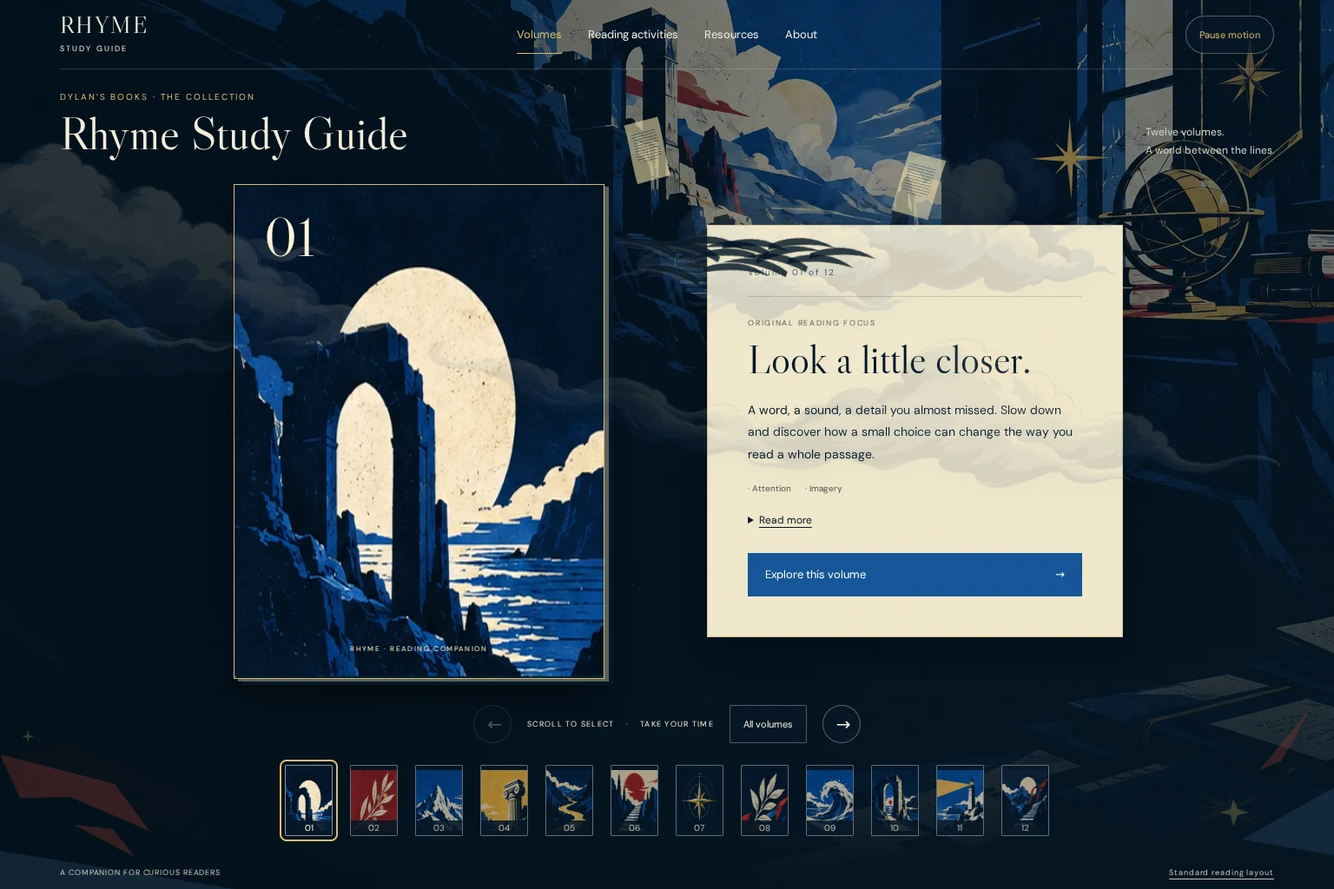
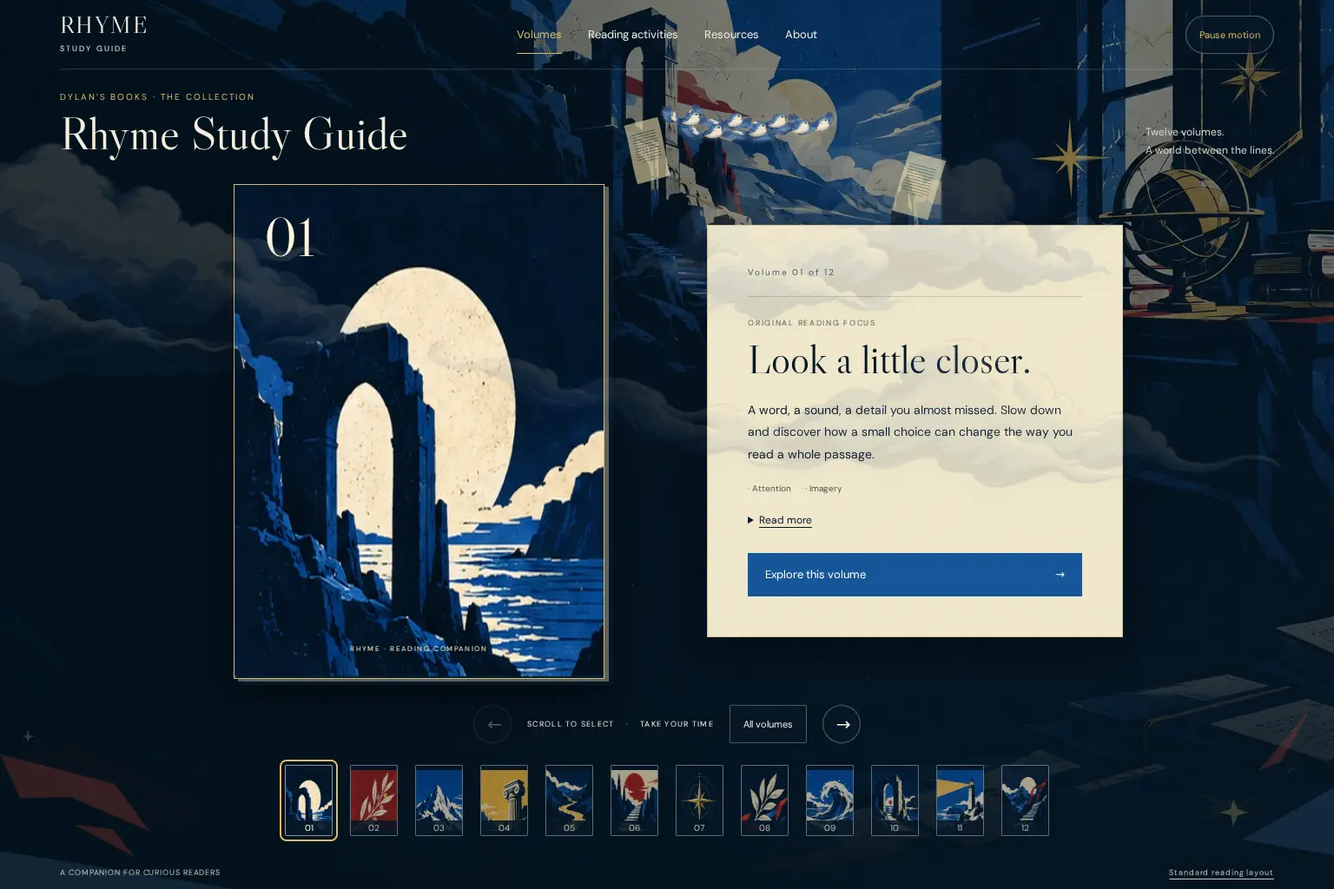
Keep flock birds upright on curved paths

Changed region(s): [[0.5, 0.25, 0.6562, 0.3125], [0.4688, 0.125, 0.625, 0.1562]]

diff --git a/assets/explorer.js b/assets/explorer.js
@@ -1,1 +1,1 @@
-var $=class{constructor(){this.reset()}reset(){this.total=0,this.last=-1/0,this.locked=!1,this.selectedAt=-1/0}feed(t,a){return a-this.last>220&&a-this.selectedAt>650&&(this.total=0,this.locked=!1),this.last=a,this.locked||!t||(Math.sign(t)!==Math.sign(this.total)&&(this.total=0),this.total+=t,Math.abs(this.total)<70)?0:(this.locked=!0,this.selectedAt=a,Math.sign(this.total))}};function N({surface:e,enabled:t,step:a}){let r=new $,d=s=>s.closest(".reading-panel,.thumbnail-strip,header,footer,dialog,details,input,textarea,select,a,button");e.addEventListener("wheel",s=>{if(!t()||s.ctrlKey||s.metaKey||d(s.target))return;s.preventDefault();let h=s.deltaY*(s.deltaMode===1?16:s.deltaMode===2?innerHeight:1),f=r.feed(h,performance.now());f&&a(f)},{passive:!1});let l=e.querySelector(".cover-stage"),o=null;l.addEventListener("touchstart",s=>{o=t()&&s.touches.length===1?{x:s.touches[0].clientX,y:s.touches[0].clientY}:null},{passive:!0}),l.addEventListener("touchmove",s=>{s.touches.length!==1&&(o=null)},{passive:!0}),l.addEventListener("touchend",s=>{if(!o||!t())return;let h=s.changedTouches[0].clientX-o.x,f=s.changedTouches[0].clientY-o.y;o=null;let m=Math.abs(h)>Math.abs(f)?h:f;Math.abs(m)>45&&a(m<0?1:-1)},{passive:!0}),l.addEventListener("touchcancel",()=>o=null,{passive:!0})}var G=[[-.78,.5],[-.78,.83],[.78,.83],[.78,.5]],U=[[.78,.5],[.78,.17],[-.78,.17],[-.78,.5]],_=60;function J(e,t){let a=1-t;return{x:a**3*e[0][0]+3*a*a*t*e[1][0]+3*a*t*t*e[2][0]+t**3*e[3][0],y:a**3*e[0][1]+3*a*a*t*e[1][1]+3*a*t*t*e[2][1]+t**3*e[3][1]}}function Q(e,t){let a=1-t;return{x:3*a*a*(e[1][0]-e[0][0])+6*a*t*(e[2][0]-e[1][0])+3*t*t*(e[3][0]-e[2][0]),y:3*a*a*(e[1][1]-e[0][1])+6*a*t*(e[2][1]-e[1][1])+3*t*t*(e[3][1]-e[2][1])}}function R(e,t=0){let a=((e/_+.28-t*.008)%1+1)%1,r=a<.5?G:U,d=a%.5*2,l=J(r,d),o=Q(r,d),s=Math.hypot(o.x,o.y)||1,h={x:o.x/s,y:o.y/s},f=t===0?0:(t%2?1:-1)*(.024+Math.floor(t/2)*.018);return{x:l.x-h.y*f,y:l.y+h.x*f,angle:Math.atan2(h.y,h.x),wing:Math.sin(e*Math.PI*2*1.4+t*.8)*.65}}var Z=7;function D(e){let t=!1,a=0,r=performance.now(),d=0,l=[...e.querySelectorAll("[data-bird]")],o=()=>{let m=innerWidth<700,Y=m?4:Z;l.forEach((g,q)=>{if(g.hidden=q>=Y,g.hidden)return;let E=R(d,q),j=50+E.x*44,X=12+E.y*22;g.style.setProperty("--bird-x",`${j}%`),g.style.setProperty("--bird-y",`${X}%`),g.style.setProperty("--bird-scale",m?.42:.62),g.style.setProperty("--bird-angle",`${E.angle}rad`),g.style.setProperty("--wing-flap",`${E.wing}rad`)})},s=m=>{a=0,!(t||document.hidden)&&(d+=Math.min((m-r)/1e3,.07),r=m,o(),a=requestAnimationFrame(s))},h=()=>{cancelAnimationFrame(a),a=0,!t&&!document.hidden&&(r=performance.now(),a=requestAnimationFrame(s))},f=()=>o();return addEventListener("resize",f),o(),h(),{setPaused(m){t=m,t?(cancelAnimationFrame(a),a=0,o()):h(),e.dataset.paused=String(t)},dispose(){t=!0,cancelAnimationFrame(a),removeEventListener("resize",f)}}}var ee=[["Notice the small things","Look a little closer.","A word, a sound, a detail you almost missed. Slow down and discover how a small choice can change the way you read a whole passage.",["Attention","Imagery"],"study-guide/reading-practice/notice/","Moonlit arch"],["Find where you belong","Follow the roots.","Explore how places and relationships shape a sense of belonging. Notice who feels at home, who stands apart, and what brings them together.",["Belonging","Setting"],"themes/belonging/","Olive branch"],["See another perspective","A different point of view.","Step beyond your first impression. Ask whose story you are hearing and how the same moment might look through someone else\u2019s eyes.",["Perspective","Narrator"],"themes/perspective/","Mountain peak"],["Build an interpretation","Give your idea a foundation.","Start with a detail from your reading, then build an interpretation around it. Separate what the text tells you from what you infer.",["Evidence","Inference"],"vocabulary/inference/","Classical column"],["Follow an idea","Find the thread.","Connect two moments in your reading. Look for an image, choice, or question that returns, and consider what changes along the way.",["Connection","Theme"],"study-guide/reading-practice/connect/","Golden river"],["Notice what changes","Every step reveals something.","Compare the beginning with a later moment. A small shift in language, a new choice, or a changed relationship can reveal a larger transformation.",["Change","Character"],"themes/change/","Staircase and sun"],["Find your reading direction","Let curiosity lead.","Choose a passage and a question to guide you. Follow a short reading activity at your own pace, with room to pause and return.",["Curiosity","Reflection"],"study-guide/reading-practice/","Compass star"],["Listen to the language","Hear the words differently.","Read a sentence aloud. Listen for its rhythm, its pauses, and its movement. Consider how the pace changes what you feel and notice.",["Rhythm","Sound"],"vocabulary/rhythm/","Paper and branch"],["Follow the echoes","Listen for a returning sound.","Explore the sounds that connect words and lines. Notice how a rhyme creates expectation, adds emphasis, or draws two ideas together.",["Rhyme","Language"],"vocabulary/rhyme/","Ocean wave"],["Step into the setting","A world beyond the page.","Look at the place, time, and conditions surrounding a story. Ask how those surroundings influence a character\u2019s choices and the mood of a scene.",["Setting","Imagery"],"vocabulary/setting/","Stone doorway"],["Make room for another view","See a little further.","One passage can open more than one possibility. Revisit a first impression, listen to another perspective, and return to the text with a new question.",["Perspective","Reflection"],"study-guide/reading-practice/reflect/","Lighthouse"],["Carry the conversation on","The last page is a beginning.","Bring a detail, a connection, or an unanswered question to another reader. Make room for different interpretations and see what you discover together.",["Conversation","Discovery"],"discussion/","Moonlit steps"]],b=ee.map(([e,t,a,r,d,l],o)=>({id:o+1,number:String(o+1).padStart(2,"0"),title:`Volume ${String(o+1).padStart(2,"0")}`,focus:e,headline:t,summary:a,themes:r,activity:d,art:l,status:"reading-companion",bookTitle:null,bookSummary:null,accent:["#164f8d","#9d352b","#245d9a","#d2ad50"][o%4],coverImage:`assets/volumes/volume-${String(o+1).padStart(2,"0")}.webp`,thumbnail:`assets/volumes/volume-${String(o+1).padStart(2,"0")}-small.webp`,route:`volumes/${String(o+1).padStart(2,"0")}/`}));var H=new Set(["volumes","activities","resources","about"]),L=class{constructor(t,a=""){this.volumes=t,this.listeners=new Set,this.state={activeIndex:0,view:"volumes",expanded:!1,transition:"idle",motionOff:!1,chooserOpen:!1},this.readHash(a)}snapshot(){return{...this.state,volume:this.volumes[this.state.activeIndex],canPrevious:this.state.activeIndex>0,canNext:this.state.activeIndex<this.volumes.length-1}}subscribe(t){return this.listeners.add(t),t(this.snapshot()),()=>this.listeners.delete(t)}update(t){this.state={...this.state,...t},this.listeners.forEach(a=>a(this.snapshot()))}select(t){return!Number.isInteger(t)||t<0||t>=this.volumes.length?!1:(this.update({activeIndex:t,view:"volumes",expanded:!1,transition:this.state.motionOff?"idle":"entering"}),!0)}step(t){return this.select(this.state.activeIndex+t)}show(t){return H.has(t)?(this.update({view:t,expanded:!1}),!0):!1}readHash(t){let a=/^#volume-(\d{2})$/.exec(t);a?this.select(Number(a[1])-1)||this.select(0):H.has(t.slice(1))?this.show(t.slice(1)):(!t||t.startsWith("#volume-"))&&this.select(0)}get hash(){return this.state.view==="volumes"?`#volume-${this.volumes[this.state.activeIndex].number}`:`#${this.state.view}`}};var u=document.documentElement,n=e=>document.querySelector(e),p=e=>[...document.querySelectorAll(e)],i=new L(b,location.hash),P=p("[data-volume]"),S=p("[data-cover]"),k=p(".volume-panel"),y=n("dialog"),A=matchMedia("(prefers-reduced-motion:reduce)"),c=-1,I="",K,v,V,x;u.classList.add("js");var W=()=>{u.dataset.documentHidden=String(document.hidden),x?.setPaused(document.hidden||i.state.motionOff||u.dataset.layout==="standard")};document.addEventListener("visibilitychange",W);W();function M(){location.hash!==i.hash&&history.pushState(null,"",i.hash)}function w(e){i.select(e)&&M()}function te(e){i.show(e)&&M()}function z(e){let t=n(".thumbnail-strip"),a=P[e];t.scrollTo({left:a.offsetLeft-t.offsetLeft-(t.clientWidth-a.clientWidth)/2,behavior:"instant"})}i.subscribe(e=>{let t=c!==e.activeIndex;if(t&&c>=0&&!e.motionOff){p(".departing-cover").forEach(l=>l.remove());let a=S[c],r=a.getBoundingClientRect(),d=a.cloneNode(!0);d.removeAttribute("data-cover"),d.className="departing-cover",d.setAttribute("aria-hidden","true"),d.style.width=`${r.width}px`,d.style.height=`${r.height}px`,n(".cover-stage").append(d),d.addEventListener("animationend",()=>d.remove(),{once:!0}),setTimeout(()=>d.remove(),520)}if(P.forEach((a,r)=>a.setAttribute("aria-pressed",String(r===e.activeIndex))),S.forEach((a,r)=>a.hidden=r!==e.activeIndex),k.forEach((a,r)=>{a.hidden=r!==e.activeIndex,a.querySelector("details").open=r===e.activeIndex&&e.expanded}),n("[data-position]").textContent=`Volume ${e.volume.number} of ${b.length}`,n("[data-previous]").disabled=!e.canPrevious,n("[data-next]").disabled=!e.canNext,p("[data-scene]").forEach(a=>a.hidden=a.dataset.scene!==e.view),p("header [data-view]").forEach(a=>{a.dataset.view===e.view?a.setAttribute("aria-current","page"):a.removeAttribute("aria-current")}),t){c=e.activeIndex;for(let a of[S[c],k[c]])a.classList.remove("is-entering"),a.offsetWidth,a.classList.add("is-entering");n("[data-announcer]").textContent=`Volume ${e.volume.number} of ${b.length}. ${e.volume.focus}.`,n("[data-reading-panel]").scrollTop=0,requestAnimationFrame(()=>z(c)),clearTimeout(K),K=setTimeout(()=>{S[c].classList.remove("is-entering"),k[c].classList.remove("is-entering"),i.update({transition:"idle"})},500)}I!==e.view&&(I=e.view,u.dataset.currentView=I)});P.forEach((e,t)=>e.addEventListener("click",()=>w(t)));n("[data-previous]").addEventListener("click",()=>w(c-1));n("[data-next]").addEventListener("click",()=>w(c+1));p("header [data-view]").forEach(e=>e.addEventListener("click",t=>{t.preventDefault(),te(e.dataset.view)}));p("details").forEach(e=>e.addEventListener("toggle",()=>{!e.closest("[hidden]")&&e.open!==i.state.expanded&&i.update({expanded:e.open})}));function O(e){u.dataset.layout=e?"standard":"visual",e||window.scrollTo(0,0),v?.setPaused(e||i.state.motionOff),x?.setPaused(e||i.state.motionOff)}n("[data-standard]").addEventListener("click",e=>{e.preventDefault(),history.pushState(null,"","#standard"),O(!0),n("[data-return]").focus()});n("[data-return]").addEventListener("click",()=>{O(!1),M(),n("[data-standard]").focus()});function C(){O(location.hash==="#standard"),i.readHash(location.hash)}addEventListener("popstate",C);addEventListener("hashchange",C);C();function F(){y.close(),i.update({chooserOpen:!1}),n("[data-chooser]").focus({preventScroll:!0})}n("[data-chooser]").addEventListener("click",()=>{i.update({chooserOpen:!0}),y.showModal(),n("[data-close-chooser]").focus()});n("[data-close-chooser]").addEventListener("click",F);y.addEventListener("keydown",e=>{if(e.key!=="Tab")return;let t=[...y.querySelectorAll("button")],a=t[0],r=t.at(-1);e.shiftKey&&document.activeElement===a?(e.preventDefault(),r.focus()):!e.shiftKey&&document.activeElement===r&&(e.preventDefault(),a.focus())});y.addEventListener("cancel",e=>{e.preventDefault(),F()});p("[data-choice]").forEach(e=>e.addEventListener("click",()=>{w(Number(e.dataset.choice)),F()}));document.addEventListener("keydown",e=>{if(e.altKey||e.ctrlKey||e.metaKey||y.open||u.dataset.layout==="standard"||i.state.view!=="volumes"||e.target.closest("details,input,textarea,select"))return;let t={ArrowRight:c+1,ArrowLeft:c-1,Home:0,End:b.length-1}[e.key];t!==void 0&&(e.preventDefault(),w(t))});var B={get(){try{return localStorage.getItem("rhyme:motion")}catch{return null}},set(e){try{localStorage.setItem("rhyme:motion",e)}catch{}}};async function T(){let e=A.matches||B.get()==="off";i.update({motionOff:e}),u.dataset.motion=e?"off":"on";let t=n(".motion-control");t.disabled=A.matches,t.setAttribute("aria-pressed",String(e)),t.textContent=A.matches?"Reduced motion":e?"Enable motion":"Pause motion",!e&&!v&&(V??=import("./rhyme-world-renderer-KITZ2NJD.js").then(({mountWorld:a})=>a(n("#world-canvas"))).catch(()=>(u.dataset.webgl="fallback",null)),v=await V),v?.setPaused(i.state.motionOff||u.dataset.layout==="standard"),x?.setPaused(i.state.motionOff||u.dataset.layout==="standard"||document.hidden)}n(".motion-control").addEventListener("click",()=>{B.set(i.state.motionOff?"on":"off"),T()});A.addEventListener("change",T);T();n(".cover-stage").addEventListener("pointermove",e=>{!i.state.motionOff&&e.pointerType==="mouse"&&v?.setPointer((e.clientX/innerWidth-.5)*.5,(e.clientY/innerHeight-.5)*.5)});n(".cover-stage").addEventListener("pointerleave",()=>v?.setPointer(0,0));p("img").forEach(e=>{let t=()=>{e.dataset.fallback||(e.dataset.fallback="true",e.src=new URL("assets/world/fallback.svg",document.baseURI).href)};e.addEventListener("error",t),e.complete&&!e.naturalWidth&&t()});addEventListener("resize",()=>z(c));N({surface:n(".reader-shell"),enabled:()=>i.state.view==="volumes"&&!i.state.chooserOpen&&u.dataset.layout!=="standard",step:e=>w(c+e)});x=D(n(".foreground-atmosphere"));x.setPaused(i.state.motionOff||u.dataset.layout==="standard"||document.hidden);u.dataset.explorer="ready";
+var A=class{constructor(){this.reset()}reset(){this.total=0,this.last=-1/0,this.locked=!1,this.selectedAt=-1/0}feed(t,a){return a-this.last>220&&a-this.selectedAt>650&&(this.total=0,this.locked=!1),this.last=a,this.locked||!t||(Math.sign(t)!==Math.sign(this.total)&&(this.total=0),this.total+=t,Math.abs(this.total)<70)?0:(this.locked=!0,this.selectedAt=a,Math.sign(this.total))}};function R({surface:e,enabled:t,step:a}){let r=new A,d=s=>s.closest(".reading-panel,.thumbnail-strip,header,footer,dialog,details,input,textarea,select,a,button");e.addEventListener("wheel",s=>{if(!t()||s.ctrlKey||s.metaKey||d(s.target))return;s.preventDefault();let h=s.deltaY*(s.deltaMode===1?16:s.deltaMode===2?innerHeight:1),f=r.feed(h,performance.now());f&&a(f)},{passive:!1});let l=e.querySelector(".cover-stage"),o=null;l.addEventListener("touchstart",s=>{o=t()&&s.touches.length===1?{x:s.touches[0].clientX,y:s.touches[0].clientY}:null},{passive:!0}),l.addEventListener("touchmove",s=>{s.touches.length!==1&&(o=null)},{passive:!0}),l.addEventListener("touchend",s=>{if(!o||!t())return;let h=s.changedTouches[0].clientX-o.x,f=s.changedTouches[0].clientY-o.y;o=null;let m=Math.abs(h)>Math.abs(f)?h:f;Math.abs(m)>45&&a(m<0?1:-1)},{passive:!0}),l.addEventListener("touchcancel",()=>o=null,{passive:!0})}var _=[[-.78,.5],[-.78,.83],[.78,.83],[.78,.5]],J=[[.78,.5],[.78,.17],[-.78,.17],[-.78,.5]],Q=60;function D(e){let t=Math.cos(e)>=0?1:-1,a=Math.max(-.16,Math.min(.16,Math.atan2(Math.sin(e),Math.abs(Math.cos(e)))*.35));return{facing:t,bank:a}}function Z(e,t){let a=1-t;return{x:a**3*e[0][0]+3*a*a*t*e[1][0]+3*a*t*t*e[2][0]+t**3*e[3][0],y:a**3*e[0][1]+3*a*a*t*e[1][1]+3*a*t*t*e[2][1]+t**3*e[3][1]}}function ee(e,t){let a=1-t;return{x:3*a*a*(e[1][0]-e[0][0])+6*a*t*(e[2][0]-e[1][0])+3*t*t*(e[3][0]-e[2][0]),y:3*a*a*(e[1][1]-e[0][1])+6*a*t*(e[2][1]-e[1][1])+3*t*t*(e[3][1]-e[2][1])}}function H(e,t=0){let a=((e/Q+.28-t*.008)%1+1)%1,r=a<.5?_:J,d=a%.5*2,l=Z(r,d),o=ee(r,d),s=Math.hypot(o.x,o.y)||1,h={x:o.x/s,y:o.y/s},f=t===0?0:(t%2?1:-1)*(.024+Math.floor(t/2)*.018);return{x:l.x-h.y*f,y:l.y+h.x*f,angle:Math.atan2(h.y,h.x),wing:Math.sin(e*Math.PI*2*1.4+t*.8)*.65}}var te=7;function K(e){let t=!1,a=0,r=performance.now(),d=0,l=[...e.querySelectorAll("[data-bird]")],o=()=>{let m=innerWidth<700,X=m?4:te;l.forEach((g,q)=>{if(g.hidden=q>=X,g.hidden)return;let E=H(d,q),N=D(E.angle),G=50+E.x*44,U=12+E.y*22;g.style.setProperty("--bird-x",`${G}%`),g.style.setProperty("--bird-y",`${U}%`),g.style.setProperty("--bird-scale",m?.42:.62),g.style.setProperty("--bird-facing",N.facing),g.style.setProperty("--bird-bank",`${N.bank}rad`),g.style.setProperty("--wing-flap",`${E.wing}rad`)})},s=m=>{a=0,!(t||document.hidden)&&(d+=Math.min((m-r)/1e3,.07),r=m,o(),a=requestAnimationFrame(s))},h=()=>{cancelAnimationFrame(a),a=0,!t&&!document.hidden&&(r=performance.now(),a=requestAnimationFrame(s))},f=()=>o();return addEventListener("resize",f),o(),h(),{setPaused(m){t=m,t?(cancelAnimationFrame(a),a=0,o()):h(),e.dataset.paused=String(t)},dispose(){t=!0,cancelAnimationFrame(a),removeEventListener("resize",f)}}}var ae=[["Notice the small things","Look a little closer.","A word, a sound, a detail you almost missed. Slow down and discover how a small choice can change the way you read a whole passage.",["Attention","Imagery"],"study-guide/reading-practice/notice/","Moonlit arch"],["Find where you belong","Follow the roots.","Explore how places and relationships shape a sense of belonging. Notice who feels at home, who stands apart, and what brings them together.",["Belonging","Setting"],"themes/belonging/","Olive branch"],["See another perspective","A different point of view.","Step beyond your first impression. Ask whose story you are hearing and how the same moment might look through someone else\u2019s eyes.",["Perspective","Narrator"],"themes/perspective/","Mountain peak"],["Build an interpretation","Give your idea a foundation.","Start with a detail from your reading, then build an interpretation around it. Separate what the text tells you from what you infer.",["Evidence","Inference"],"vocabulary/inference/","Classical column"],["Follow an idea","Find the thread.","Connect two moments in your reading. Look for an image, choice, or question that returns, and consider what changes along the way.",["Connection","Theme"],"study-guide/reading-practice/connect/","Golden river"],["Notice what changes","Every step reveals something.","Compare the beginning with a later moment. A small shift in language, a new choice, or a changed relationship can reveal a larger transformation.",["Change","Character"],"themes/change/","Staircase and sun"],["Find your reading direction","Let curiosity lead.","Choose a passage and a question to guide you. Follow a short reading activity at your own pace, with room to pause and return.",["Curiosity","Reflection"],"study-guide/reading-practice/","Compass star"],["Listen to the language","Hear the words differently.","Read a sentence aloud. Listen for its rhythm, its pauses, and its movement. Consider how the pace changes what you feel and notice.",["Rhythm","Sound"],"vocabulary/rhythm/","Paper and branch"],["Follow the echoes","Listen for a returning sound.","Explore the sounds that connect words and lines. Notice how a rhyme creates expectation, adds emphasis, or draws two ideas together.",["Rhyme","Language"],"vocabulary/rhyme/","Ocean wave"],["Step into the setting","A world beyond the page.","Look at the place, time, and conditions surrounding a story. Ask how those surroundings influence a character\u2019s choices and the mood of a scene.",["Setting","Imagery"],"vocabulary/setting/","Stone doorway"],["Make room for another view","See a little further.","One passage can open more than one possibility. Revisit a first impression, listen to another perspective, and return to the text with a new question.",["Perspective","Reflection"],"study-guide/reading-practice/reflect/","Lighthouse"],["Carry the conversation on","The last page is a beginning.","Bring a detail, a connection, or an unanswered question to another reader. Make room for different interpretations and see what you discover together.",["Conversation","Discovery"],"discussion/","Moonlit steps"]],b=ae.map(([e,t,a,r,d,l],o)=>({id:o+1,number:String(o+1).padStart(2,"0"),title:`Volume ${String(o+1).padStart(2,"0")}`,focus:e,headline:t,summary:a,themes:r,activity:d,art:l,status:"reading-companion",bookTitle:null,bookSummary:null,accent:["#164f8d","#9d352b","#245d9a","#d2ad50"][o%4],coverImage:`assets/volumes/volume-${String(o+1).padStart(2,"0")}.webp`,thumbnail:`assets/volumes/volume-${String(o+1).padStart(2,"0")}-small.webp`,route:`volumes/${String(o+1).padStart(2,"0")}/`}));var V=new Set(["volumes","activities","resources","about"]),L=class{constructor(t,a=""){this.volumes=t,this.listeners=new Set,this.state={activeIndex:0,view:"volumes",expanded:!1,transition:"idle",motionOff:!1,chooserOpen:!1},this.readHash(a)}snapshot(){return{...this.state,volume:this.volumes[this.state.activeIndex],canPrevious:this.state.activeIndex>0,canNext:this.state.activeIndex<this.volumes.length-1}}subscribe(t){return this.listeners.add(t),t(this.snapshot()),()=>this.listeners.delete(t)}update(t){this.state={...this.state,...t},this.listeners.forEach(a=>a(this.snapshot()))}select(t){return!Number.isInteger(t)||t<0||t>=this.volumes.length?!1:(this.update({activeIndex:t,view:"volumes",expanded:!1,transition:this.state.motionOff?"idle":"entering"}),!0)}step(t){return this.select(this.state.activeIndex+t)}show(t){return V.has(t)?(this.update({view:t,expanded:!1}),!0):!1}readHash(t){let a=/^#volume-(\d{2})$/.exec(t);a?this.select(Number(a[1])-1)||this.select(0):V.has(t.slice(1))?this.show(t.slice(1)):(!t||t.startsWith("#volume-"))&&this.select(0)}get hash(){return this.state.view==="volumes"?`#volume-${this.volumes[this.state.activeIndex].number}`:`#${this.state.view}`}};var u=document.documentElement,n=e=>document.querySelector(e),p=e=>[...document.querySelectorAll(e)],i=new L(b,location.hash),I=p("[data-volume]"),S=p("[data-cover]"),M=p(".volume-panel"),y=n("dialog"),k=matchMedia("(prefers-reduced-motion:reduce)"),c=-1,$="",W,v,z,x;u.classList.add("js");var B=()=>{u.dataset.documentHidden=String(document.hidden),x?.setPaused(document.hidden||i.state.motionOff||u.dataset.layout==="standard")};document.addEventListener("visibilitychange",B);B();function P(){location.hash!==i.hash&&history.pushState(null,"",i.hash)}function w(e){i.select(e)&&P()}function oe(e){i.show(e)&&P()}function Y(e){let t=n(".thumbnail-strip"),a=I[e];t.scrollTo({left:a.offsetLeft-t.offsetLeft-(t.clientWidth-a.clientWidth)/2,behavior:"instant"})}i.subscribe(e=>{let t=c!==e.activeIndex;if(t&&c>=0&&!e.motionOff){p(".departing-cover").forEach(l=>l.remove());let a=S[c],r=a.getBoundingClientRect(),d=a.cloneNode(!0);d.removeAttribute("data-cover"),d.className="departing-cover",d.setAttribute("aria-hidden","true"),d.style.width=`${r.width}px`,d.style.height=`${r.height}px`,n(".cover-stage").append(d),d.addEventListener("animationend",()=>d.remove(),{once:!0}),setTimeout(()=>d.remove(),520)}if(I.forEach((a,r)=>a.setAttribute("aria-pressed",String(r===e.activeIndex))),S.forEach((a,r)=>a.hidden=r!==e.activeIndex),M.forEach((a,r)=>{a.hidden=r!==e.activeIndex,a.querySelector("details").open=r===e.activeIndex&&e.expanded}),n("[data-position]").textContent=`Volume ${e.volume.number} of ${b.length}`,n("[data-previous]").disabled=!e.canPrevious,n("[data-next]").disabled=!e.canNext,p("[data-scene]").forEach(a=>a.hidden=a.dataset.scene!==e.view),p("header [data-view]").forEach(a=>{a.dataset.view===e.view?a.setAttribute("aria-current","page"):a.removeAttribute("aria-current")}),t){c=e.activeIndex;for(let a of[S[c],M[c]])a.classList.remove("is-entering"),a.offsetWidth,a.classList.add("is-entering");n("[data-announcer]").textContent=`Volume ${e.volume.number} of ${b.length}. ${e.volume.focus}.`,n("[data-reading-panel]").scrollTop=0,requestAnimationFrame(()=>Y(c)),clearTimeout(W),W=setTimeout(()=>{S[c].classList.remove("is-entering"),M[c].classList.remove("is-entering"),i.update({transition:"idle"})},500)}$!==e.view&&($=e.view,u.dataset.currentView=$)});I.forEach((e,t)=>e.addEventListener("click",()=>w(t)));n("[data-previous]").addEventListener("click",()=>w(c-1));n("[data-next]").addEventListener("click",()=>w(c+1));p("header [data-view]").forEach(e=>e.addEventListener("click",t=>{t.preventDefault(),oe(e.dataset.view)}));p("details").forEach(e=>e.addEventListener("toggle",()=>{!e.closest("[hidden]")&&e.open!==i.state.expanded&&i.update({expanded:e.open})}));function O(e){u.dataset.layout=e?"standard":"visual",e||window.scrollTo(0,0),v?.setPaused(e||i.state.motionOff),x?.setPaused(e||i.state.motionOff)}n("[data-standard]").addEventListener("click",e=>{e.preventDefault(),history.pushState(null,"","#standard"),O(!0),n("[data-return]").focus()});n("[data-return]").addEventListener("click",()=>{O(!1),P(),n("[data-standard]").focus()});function C(){O(location.hash==="#standard"),i.readHash(location.hash)}addEventListener("popstate",C);addEventListener("hashchange",C);C();function F(){y.close(),i.update({chooserOpen:!1}),n("[data-chooser]").focus({preventScroll:!0})}n("[data-chooser]").addEventListener("click",()=>{i.update({chooserOpen:!0}),y.showModal(),n("[data-close-chooser]").focus()});n("[data-close-chooser]").addEventListener("click",F);y.addEventListener("keydown",e=>{if(e.key!=="Tab")return;let t=[...y.querySelectorAll("button")],a=t[0],r=t.at(-1);e.shiftKey&&document.activeElement===a?(e.preventDefault(),r.focus()):!e.shiftKey&&document.activeElement===r&&(e.preventDefault(),a.focus())});y.addEventListener("cancel",e=>{e.preventDefault(),F()});p("[data-choice]").forEach(e=>e.addEventListener("click",()=>{w(Number(e.dataset.choice)),F()}));document.addEventListener("keydown",e=>{if(e.altKey||e.ctrlKey||e.metaKey||y.open||u.dataset.layout==="standard"||i.state.view!=="volumes"||e.target.closest("details,input,textarea,select"))return;let t={ArrowRight:c+1,ArrowLeft:c-1,Home:0,End:b.length-1}[e.key];t!==void 0&&(e.preventDefault(),w(t))});var j={get(){try{return localStorage.getItem("rhyme:motion")}catch{return null}},set(e){try{localStorage.setItem("rhyme:motion",e)}catch{}}};async function T(){let e=k.matches||j.get()==="off";i.update({motionOff:e}),u.dataset.motion=e?"off":"on";let t=n(".motion-control");t.disabled=k.matches,t.setAttribute("aria-pressed",String(e)),t.textContent=k.matches?"Reduced motion":e?"Enable motion":"Pause motion",!e&&!v&&(z??=import("./rhyme-world-renderer-KITZ2NJD.js").then(({mountWorld:a})=>a(n("#world-canvas"))).catch(()=>(u.dataset.webgl="fallback",null)),v=await z),v?.setPaused(i.state.motionOff||u.dataset.layout==="standard"),x?.setPaused(i.state.motionOff||u.dataset.layout==="standard"||document.hidden)}n(".motion-control").addEventListener("click",()=>{j.set(i.state.motionOff?"on":"off"),T()});k.addEventListener("change",T);T();n(".cover-stage").addEventListener("pointermove",e=>{!i.state.motionOff&&e.pointerType==="mouse"&&v?.setPointer((e.clientX/innerWidth-.5)*.5,(e.clientY/innerHeight-.5)*.5)});n(".cover-stage").addEventListener("pointerleave",()=>v?.setPointer(0,0));p("img").forEach(e=>{let t=()=>{e.dataset.fallback||(e.dataset.fallback="true",e.src=new URL("assets/world/fallback.svg",document.baseURI).href)};e.addEventListener("error",t),e.complete&&!e.naturalWidth&&t()});addEventListener("resize",()=>Y(c));R({surface:n(".reader-shell"),enabled:()=>i.state.view==="volumes"&&!i.state.chooserOpen&&u.dataset.layout!=="standard",step:e=>w(c+e)});x=K(n(".foreground-atmosphere"));x.setPaused(i.state.motionOff||u.dataset.layout==="standard"||document.hidden);u.dataset.explorer="ready";

diff --git a/assets/atmosphere.css b/assets/atmosphere.css
@@ -7,7 +7,7 @@
 .foreground-atmosphere .cloud-cluster{width:40vw;left:0;top:3%;opacity:.13;animation-duration:120s;animation-delay:-72s}
 @keyframes cloud-drift{from{transform:translateX(-100%)}to{transform:translateX(100vw)}}
 .foreground-birds{position:absolute;inset:0;width:100%;height:50%;overflow:visible;pointer-events:none;filter:drop-shadow(0 1px 2px #f2dfad55)}
-.foreground-bird{position:absolute;left:var(--bird-x);top:var(--bird-y);width:64px;height:42px;transform:translate(-50%,-50%) rotate(var(--bird-angle)) scale(var(--bird-scale));transform-origin:center;opacity:.9;will-change:transform}
+.foreground-bird{position:absolute;left:var(--bird-x);top:var(--bird-y);width:64px;height:42px;transform:translate(-50%,-50%) rotate(var(--bird-bank)) scaleX(var(--bird-facing)) scaleY(var(--bird-scale));transform-origin:center;opacity:.9;will-change:transform}
 .bird-part{position:absolute;display:block;object-fit:contain;pointer-events:none;user-select:none}
 .bird-body{z-index:2;left:20px;top:4px;width:38px;height:34px}
 .bird-wing{z-index:1;width:31px;height:36px;top:3px;will-change:transform}

diff --git a/src/domains/atmosphere/style.css b/src/domains/atmosphere/style.css
@@ -7,7 +7,7 @@
 .foreground-atmosphere .cloud-cluster{width:40vw;left:0;top:3%;opacity:.13;animation-duration:120s;animation-delay:-72s}
 @keyframes cloud-drift{from{transform:translateX(-100%)}to{transform:translateX(100vw)}}
 .foreground-birds{position:absolute;inset:0;width:100%;height:50%;overflow:visible;pointer-events:none;filter:drop-shadow(0 1px 2px #f2dfad55)}
-.foreground-bird{position:absolute;left:var(--bird-x);top:var(--bird-y);width:64px;height:42px;transform:translate(-50%,-50%) rotate(var(--bird-angle)) scale(var(--bird-scale));transform-origin:center;opacity:.9;will-change:transform}
+.foreground-bird{position:absolute;left:var(--bird-x);top:var(--bird-y);width:64px;height:42px;transform:translate(-50%,-50%) rotate(var(--bird-bank)) scaleX(var(--bird-facing)) scaleY(var(--bird-scale));transform-origin:center;opacity:.9;will-change:transform}
 .bird-part{position:absolute;display:block;object-fit:contain;pointer-events:none;user-select:none}
 .bird-body{z-index:2;left:20px;top:4px;width:38px;height:34px}
 .bird-wing{z-index:1;width:31px;height:36px;top:3px;will-change:transform}

diff --git a/docs/volume-explorer.md b/docs/volume-explorer.md
@@ -37,4 +37,4 @@ Run `npm run build`, `npm test`, and `npm run validate`. Run `QA_CHROMIUM_PATH=/
 
 The atmosphere domain also owns `clouds.mjs`, `style.css`, and `flock.mjs`. Cloud HTML is rendered in a fixed `.foreground-atmosphere` layer above the reader and outside `world-art`; `pointer-events: none` keeps all controls clickable. CSS transforms move three alpha WebP images across the upper half of the screen over 120–190 seconds. Their resets occur outside the viewport. Two layers remain visible on mobile. Cloud animation pauses for reduced motion, the visible motion toggle, hidden documents and standard reading layout.
 
-Seven generated bird rigs (four on narrow screens) follow two joined cubic Bézier segments in a closed 60-second path. Each rig is composed from a separate body, left wing, and right wing sprite; the path controls position and heading while the wing phase rotates both wings from their attachment points. Phase offsets create cohesion and alternating lateral slots maintain separation without a simulation or new dependency. This is a lightweight guided flock, not a general-purpose boids simulation. The same path is retained in the Three.js flock helper for native validation. The overlay is z-indexed above the reader, uses transparent alpha assets, and passes all pointer input through to the controls. Local browser captures validate the cloud layers, bird parts, overlap and pointer pass-through.
+Seven generated bird rigs (four on narrow screens) follow two joined cubic Bézier segments in a closed 60-second path. Each rig is composed from a separate body, left wing, and right wing sprite. The path controls position; horizontal tangent direction controls facing; vertical tangent direction produces only a limited ±0.16 rad bank, so birds never rotate upside down. The wing phase rotates both wings from their attachment points. Phase offsets create cohesion and alternating lateral slots maintain separation without a simulation or new dependency. This is a lightweight guided flock, not a general-purpose boids simulation. The same orientation helper is used by the Three.js flock helper for native validation. The overlay is z-indexed above the reader, uses transparent alpha assets, and passes all pointer input through to the controls. Local browser captures validate the cloud layers, bird parts, upright orientation, overlap and pointer pass-through.

diff --git a/validation/release/atmosphere/README.md b/validation/release/atmosphere/README.md
@@ -1,11 +1,11 @@
-# Foreground atmosphere review — 2.4.0
+# Foreground atmosphere review — 2.5.0
 
 Baseline: 52dc80eed125d1af283d05b45fe01ee33f8ad08d.
 
 The clouds and birds now occupy a fixed transparent foreground overlay across the upper half of the viewport. The overlay is above the book and reading panel visually and uses `pointer-events: none` so every control remains clickable.
 
-The local browser suite passed 56 checks, including the existing reader tests, foreground z-index and pointer pass-through, cloud loading and drift, pause motion, reduced motion, hidden-document freezing, desktop/mobile bird counts, layered bird asset loading, overlap, and all existing reader interactions. Seventeen unit/content tests passed. Forty static routes and 926 links passed.
+The local browser suite passed 58 checks, including the existing reader tests, foreground z-index and pointer pass-through, cloud loading and drift, pause motion, reduced motion, hidden-document freezing, desktop/mobile bird counts, layered bird asset loading, upright orientation, overlap, and all existing reader interactions. Eighteen unit/content tests passed. Forty static routes and 926 links passed.
 
-The actual Three.js scene rendered through native WGPU/Vulkan on Mesa Lavapipe. The shared flock path renders at the same pose at the loop boundary, with deterministic native output. Browser captures validate the transparent image and layered bird foreground; native rendering validates the shared path and Three.js flock helper.
+The actual Three.js scene rendered through native WGPU/Vulkan on Mesa Lavapipe. The shared flock path renders at the same pose at the loop boundary, with deterministic native output. Browser captures validate the transparent image, layered bird foreground, and upright orientation; native rendering validates the shared path and Three.js flock helper.
 
 Physical-device, screen-reader, Safari and Firefox behavior was not tested.

diff --git a/docs/assets.md b/docs/assets.md
@@ -28,4 +28,4 @@ Individual subjects:
 - Wisp: “Long slender wisp, mostly muted slate blue with small warm cream highlights, delicate tapered ends.”
 - Cluster: “Compact asymmetrical cluster of rounded clouds, cobalt and midnight blue shadows, muted cream tops.”
 
-Clouds are image assets. The foreground bird is a generated transparent sprite sheet with three separated parts, exported as `bird-body.png`, `bird-wing-left.png`, and `bird-wing-right.png`. The browser composes those parts per bird and rotates both wings from their attachment points; the shared flock path remains code-native for movement and native Three.js validation.
+Clouds are image assets. The foreground bird is a generated transparent sprite sheet with three separated parts, exported as `bird-body.png`, `bird-wing-left.png`, and `bird-wing-right.png`. The browser composes those parts per bird, flips the complete rig horizontally when the path reverses, applies only a small bank, and rotates both wings from their attachment points. The shared flock path and orientation helper remain code-native for movement and native Three.js validation.

diff --git a/CHANGELOG.md b/CHANGELOG.md
@@ -1,3 +1,9 @@
+# 2.5.0 — Upright flock orientation
+
+- Kept browser and native birds upright while following the curved flight path.
+- Added horizontal facing flips and limited ±0.16 rad banking instead of applying the full tangent rotation.
+- Added shared orientation tests and browser checks for layered bird rigs and safe banking.
+
 # 2.4.0 — Layered bird rig
 
 - Added a generated transparent bird sprite sheet with separately exported body and wing parts.
